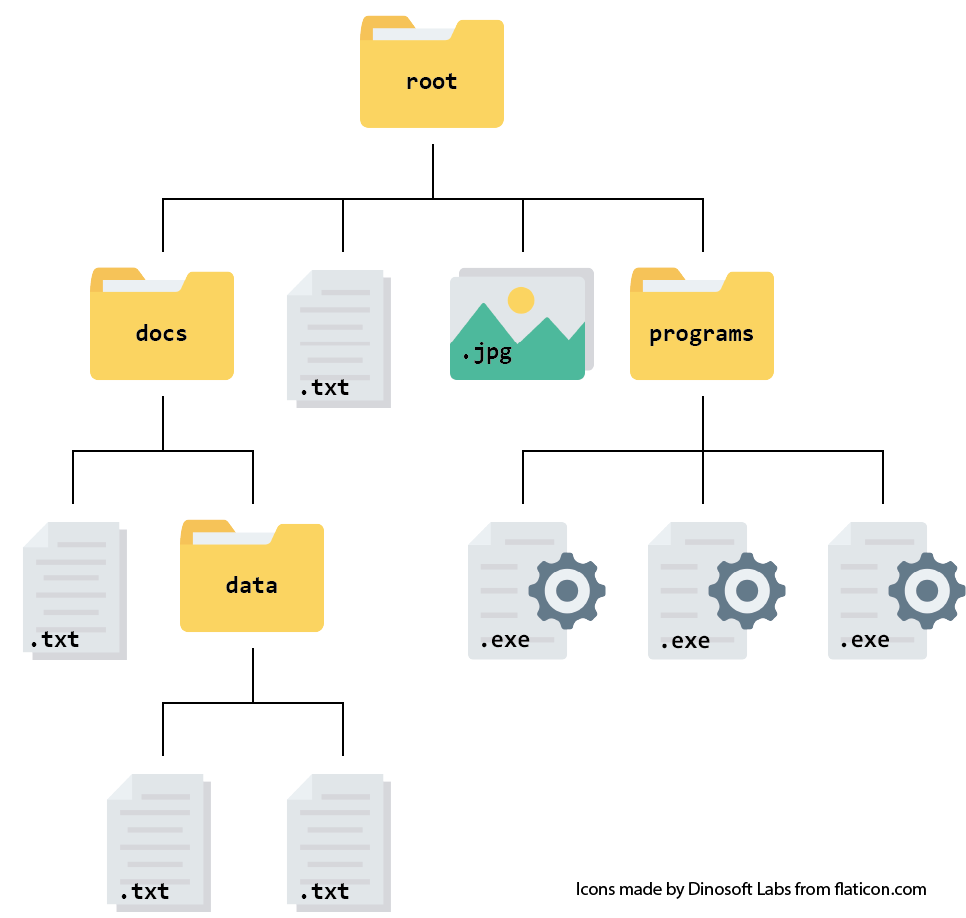
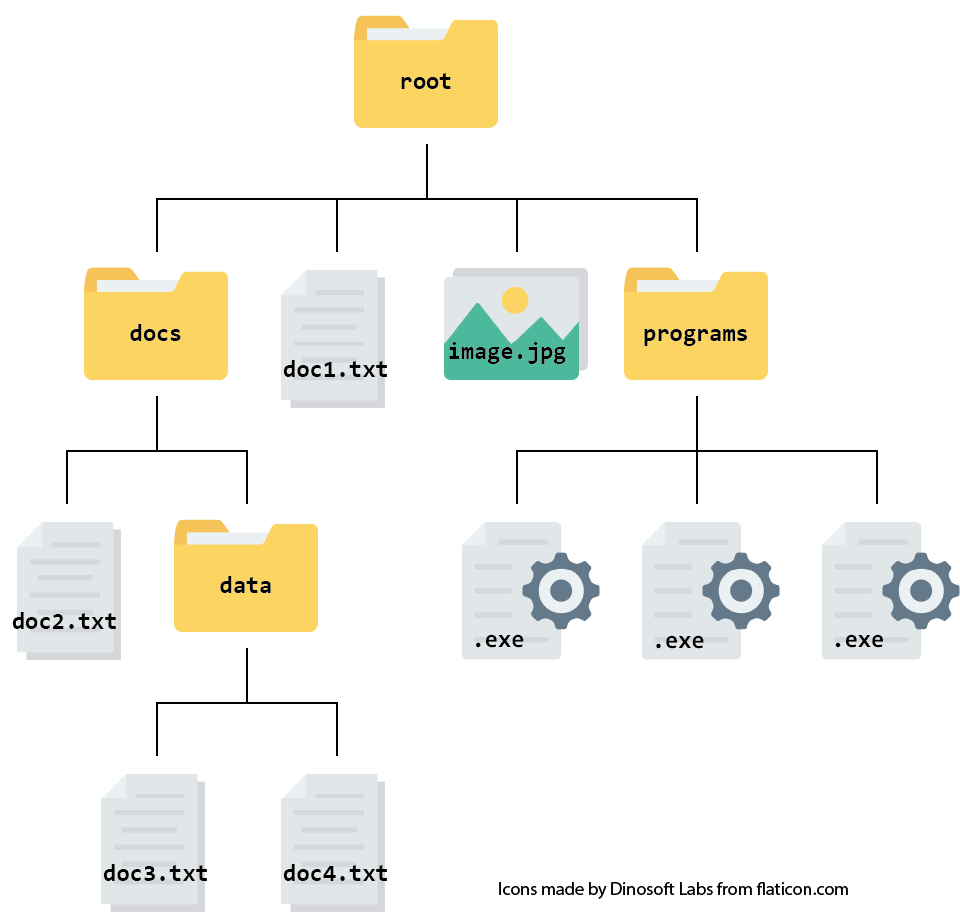
Add to file systems content (plus edited graphic)

diff --git a/_episodes/01-understanding-file-systems.md b/_episodes/01-understanding-file-systems.md
@@ -37,24 +37,41 @@ It is easiest to picture your file system as a tree, starting with the **root** 
 >
 > Hint: remind yourself of your file system's layout using a file manager application such as:
 >
-> <img src="../fig/icon-file-explorer-windows.png" width="20px" align="left">  **File Explorer** in Windows.  
-> <img src="../fig/icon-finder-mac.png" width="20px" align="left">  **Finder** on Mac.
+> - <img src="../fig/icon-file-explorer-windows.png" width="20px" align="left">  **File Explorer** in Windows.  
+> - <img src="../fig/icon-finder-mac.png" width="20px" align="left">  **Finder** on Mac.
 >
 > You probably use these applications regularly to find and organise files.
 {: .challenge}
 
-<!--> Copied from episode02-logging-onto-cloud <!-->
-But first, to keep things tidy and easily accessible, create a folder (or directory) to keep everything related to this course: your login key file, your notes, data, etc.  We will then download your login key file to that folder and change its access permissions for the reasons given below. Finally we will login into your instance with ssh.
+## File Paths
 
-## Create a folder for the course and download your login key file to that folder
+It is not practical to draw out a tree diagram every time we want to refer to a file's location with a system. Instead, we can represent the information as a **file path**.
+
+In a **file path**, each directory is represented as a separate component separated by a character such as `\` or `/`. It is like writing an address or set of instructions for someone to follow if they want to find a specific file.
+
+For example, the path for the file called *doc3.txt* in the file system above looks like this:
+`root/docs/data/doc3.txt`.
+
+
+## Create a folder for the course
+
+To keep things tidy and easily accessible, we will create a folder (directory) to keep everything related to this course: the key you will need to log in, your notes, data etc. 
+
+In theory you can make this file anywhere in your file system but we recommend making it inside your Desktop folder, to make it easy to access.
 
 1. **Create the folder** *cloudspan* in your *Desktop*.
 
-   In your Desktop, click the right button of the mouse to open the File Explorer/Manager menu, and then left click on New and then on Folder, in Windows, or New Folder in Linux Gnome.
+   Minimise all windows until you can see your desktop background. Right click and select *New*, then *Folder*. Name the folder *cloudspan*.
 
-   Name the folder *cloudspan*
+   You should see a folder icon appear on your desktop with the label *cloudspan*.
 
-   Later you can change the name of the folder and move it somewhere else.
+   Additionally, if you enter your file explorer application you should be able to click on the *Desktop* directory at the side and see the *cloudspan* folder.
+
+****
+
+We will then download your login key file to that folder and change its access permissions for the reasons given below. Finally we will login into your instance with ssh.
+
+
 
 2. **Download your login key file** to the folder you just created.
 
